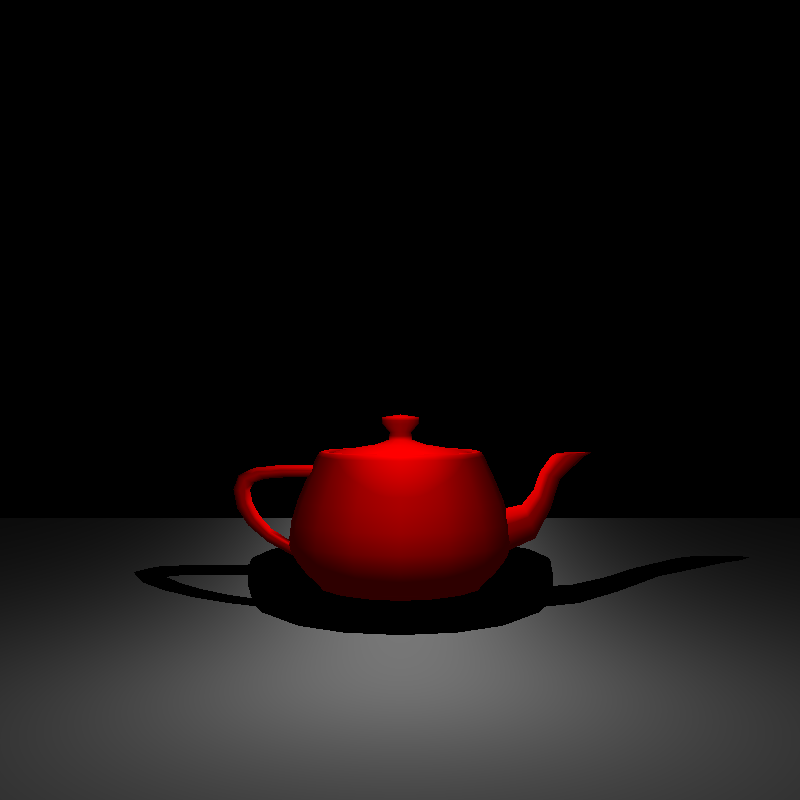
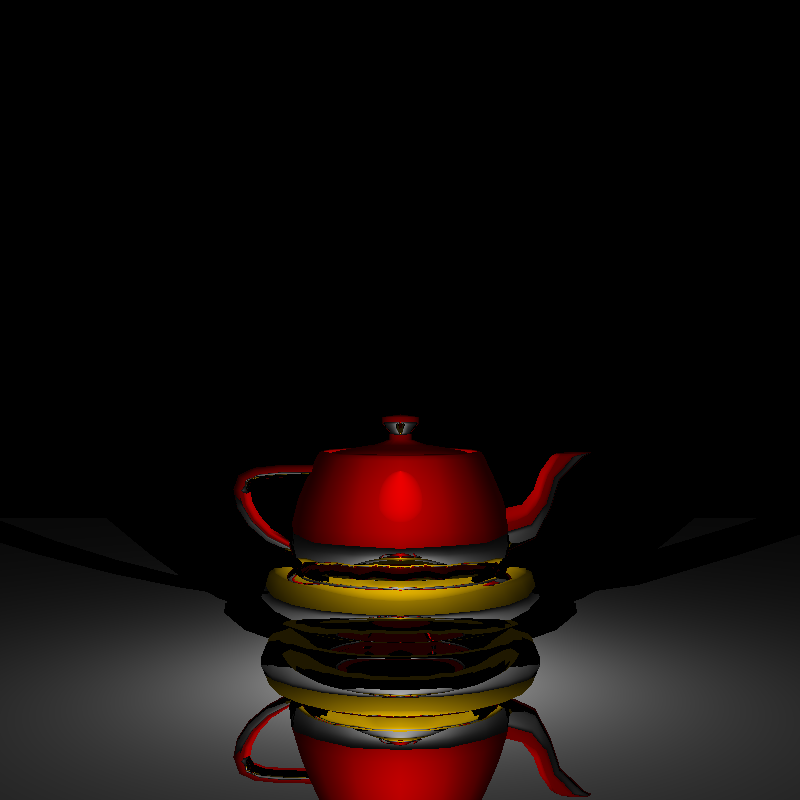
Raytracer v0.9.6
Implemented a recursive reflection method

Changed region(s): [[0.125, 0.5, 0.8438, 1.0]]

diff --git a/src/edu/up/isgc/raytracer/Raytracer.java b/src/edu/up/isgc/raytracer/Raytracer.java
@@ -17,6 +17,7 @@ import java.awt.image.BufferedImage;
 import java.io.File;
 import java.io.IOException;
 import java.lang.reflect.Array;
+import java.sql.NClob;
 import java.util.ArrayList;
 import java.util.Date;
 
@@ -29,14 +30,15 @@ public class Raytracer {
     public static void main(String[] args) {
         System.out.println(new Date());
         Scene scene01 = new Scene();
+
         scene01.setCamera(new Camera(new Vector3D(0, 0, -8), 160, 160, 800, 800, 0f, 30f));
-        //scene01.addLight(new DirectionalLight(Vector3D.ZERO(), new Vector3D(0.0, 2.5, -10), Color.WHITE, 4.4));
-        scene01.addLight(new PointLight(new Vector3D(0f,0.5f,-1f), Color.WHITE, 1.8));
-        //scene01.addObject(new Sphere(new Vector3D(-2.5f, 0.5f, 2f), 0.9f, Color.GREEN));
+        //scene01.addLight(new DirectionalLight(Vector3D.ZERO(), new Vector3D(0, 1.5, -20), Color.WHITE, 0.05));
+        scene01.addLight(new PointLight(new Vector3D(0f,-0.5f,-0.5f), Color.WHITE, 1.8));
         scene01.addObject(new Polygon(new Vector3D(0f, -2f, 0f), new Triangle[]{new Triangle(new Vector3D(10f,0f,10f), new Vector3D(-10f,0f,10f), new Vector3D(-10f,0f,-10f)),
-                new Triangle(new Vector3D(-10f,0f,-10f), new Vector3D(10f,0f,-10f), new Vector3D(10f,0f,10f))}, Color.GRAY, new Material(0.05,5,1,1,1)));
-        scene01.addObject(OBJReader.GetPolygon("SmallTeapot.obj", new Vector3D(0f, -1.7f, 1.5f), Color.RED,new Material(0.3,0.8,0.6,1,1)));
-        //scene01.addObject(OBJReader.GetPolygon("Ring.obj", new Vector3D(0f, -1.7f, 1.5f), Color.ORANGE));
+                new Triangle(new Vector3D(-10f,0f,-10f), new Vector3D(10f,0f,-10f), new Vector3D(10f,0f,10f))}, Color.GRAY, new Material(0.05,5,1,true,false)));
+        scene01.addObject(OBJReader.GetPolygon("SmallTeapot.obj", new Vector3D(0f, -1.7f, 1.5f), Color.RED,new Material(0.3,0.5,0.4,true,false)));
+        scene01.addObject(OBJReader.GetPolygon("Ring.obj", new Vector3D(0f, -1.7f, 1.5f), Color.ORANGE, new Material(0.3,0.5,0.4,true,false)));
+
         BufferedImage image = raytrace(scene01);
         File outputImage = new File("image.png");
         try {
@@ -69,13 +71,22 @@ public class Raytracer {
                 Color pixelColor = Color.BLACK;
                 if (closestIntersection != null) {
                     pixelColor = Color.BLACK;
+                    //Reflection
+                    if (closestIntersection.getObject().getMaterial().getReflection() == true){
+                        int timesReflected = 0;
+                        Intersection reflection = reflection(closestIntersection, objects, mainCamera, timesReflected);
+                        if (reflection != null){
+                            closestIntersection = reflection;
+                        }
+                    }
+                    //Check lights
                     for (Light light : lights) {
                         Ray shadowRay = new Ray(closestIntersection.getPosition(), Vector3D.substract(light.getPosition(),closestIntersection.getPosition()));
                         Intersection shadow = raycast(shadowRay, objects, closestIntersection.getObject(), new float[]{cameraZ + nearFarPlanes[0], cameraZ + nearFarPlanes[1]});
                         float nDotL = light.getNDotL(closestIntersection);
                         float intensity = (float) light.getIntensity() * nDotL;
-                        float lightRange = intensity / (float) Vector3D.magnitude(Vector3D.substract(closestIntersection.getPosition(),light.getPosition()));
-                        //float lightRange = intensity / (float) Math.pow(Vector3D.magnitude(Vector3D.substract(closestIntersection.getPosition(),light.getPosition())),2) ;
+                        float falloff = intensity / (float) Vector3D.magnitude(Vector3D.substract(closestIntersection.getPosition(),light.getPosition()));
+                        //float falloff = intensity / (float) Math.pow(Vector3D.magnitude(Vector3D.substract(closestIntersection.getPosition(),light.getPosition())),2) ;
                         double ambient = closestIntersection.getObject().getMaterial().getAmbient();
                         double specular = specular(closestIntersection, ray, light);
                         Color lightColor = light.getColor();
@@ -84,7 +95,7 @@ public class Raytracer {
                         float[] lightColors = new float[]{(lightColor.getRed() / 255.0f)*objDiffuse, (lightColor.getGreen() / 255.0f)*objDiffuse, (lightColor.getBlue() / 255.0f)*objDiffuse};
                         float[] objColors = new float[]{objColor.getRed() / 255.0f, objColor.getGreen() / 255.0f, objColor.getBlue() / 255.0f};
                         for (int colorIndex = 0; colorIndex < objColors.length; colorIndex++) {
-                            objColors[colorIndex] *= (lightRange+specular+ambient) * lightColors[colorIndex];
+                            objColors[colorIndex] *= (falloff+specular+ambient) * lightColors[colorIndex];
                         }
                         Color diffuse = new Color(clamp(objColors[0], 0, 1),clamp(objColors[1], 0, 1),clamp(objColors[2], 0, 1));
                         if (shadow != null){
@@ -159,10 +170,28 @@ public class Raytracer {
             return 0;
     }
 
-    public static Intersection reflection(Intersection intersection, ArrayList<Object3D> objects, Camera camera){
-        float reflection = 2;
-        if (reflection > 0){
-            //refleja();
+    public static Intersection reflection(Intersection intersection, ArrayList<Object3D> objects, Camera camera, int timesReflected){
+        boolean objectReflection = intersection.getObject().getMaterial().getReflection();
+        float cameraZ = (float) camera.getPosition().getZ();
+        float[] nearFarPlanes = camera.getNearFarPlanes();
+        if (objectReflection == true && timesReflected <= 3) {
+            Vector3D normal = intersection.getNormal();
+            Vector3D view = Vector3D.substract(intersection.getPosition(), camera.getPosition());
+            Vector3D reflectionDirection = Vector3D.add(Vector3D.scalarMultiplication(Vector3D.scalarMultiplication(normal, -2), Vector3D.dotProduct(normal, view)), view);
+            Ray reflection = new Ray(intersection.getPosition(), reflectionDirection);
+
+            for (Object3D object : objects){
+                if (!object.equals(intersection.getObject())) {
+                    Intersection reflectionIntersection = raycast(reflection, objects, intersection.getObject(), new float[]{cameraZ + nearFarPlanes[0], cameraZ + nearFarPlanes[1]});
+                    //Recursive reflection
+                    if (reflectionIntersection == null) {
+                        return intersection;
+                    }
+                    else {
+                        return reflection(reflectionIntersection, objects, camera, timesReflected+1);
+                    }
+                }
+            }
         }
         return intersection;
     }

diff --git a/src/edu/up/isgc/raytracer/tools/Material.java b/src/edu/up/isgc/raytracer/tools/Material.java
@@ -5,12 +5,11 @@ import java.awt.*;
 public class Material {
         private double ambient;
         private double shininess;
-        private double specular;
         private double diffuse;
-        private double reflection;
-        private double refraction;
+        private boolean reflection;
+        private boolean refraction;
 
-        public Material(double ambient, double shininess, double diffuse, double reflection, double refraction){
+        public Material(double ambient, double shininess, double diffuse, boolean reflection, boolean refraction){
             setAmbient(ambient);
             setShininess(shininess);
             setDiffuse(diffuse);
@@ -42,19 +41,19 @@ public class Material {
         this.diffuse = diffuse;
     }
 
-    public double getReflection() {
+    public boolean getReflection() {
         return reflection;
     }
 
-    public void setReflection(double reflection) {
+    public void setReflection(boolean reflection) {
         this.reflection = reflection;
     }
 
-    public double getRefraction() {
+    public boolean getRefraction() {
         return refraction;
     }
 
-    public void setRefraction(double refraction) {
+        public void setRefraction(boolean refraction) {
         this.refraction = refraction;
     }
 }

diff --git a/src/edu/up/isgc/raytracer/objects/Camera.java b/src/edu/up/isgc/raytracer/objects/Camera.java
@@ -24,7 +24,7 @@ public class Camera extends Object3D {
     // 1 is height
     private int[] resolution;
     private float[] nearFarPlanes = new float[2];
-    private static Material material = new Material(0,0,0,0,0);
+    private static Material material = new Material(0,0,0,false,false);
 
     public Camera(Vector3D position, float fieldOfViewHorizontal, float fieldOfViewVertical, int widthResolution, int heightResolution, float nearPlane, float farPlane) {
         super(position, Color.black, material);

diff --git a/src/edu/up/isgc/raytracer/lights/Light.java b/src/edu/up/isgc/raytracer/lights/Light.java
@@ -18,7 +18,7 @@ import java.awt.*;
  */
 public abstract class Light extends Object3D {
     private double intensity;
-    private static Material material = new Material(0,0,0,0,0);
+    private static Material material = new Material(0,0,0,false,false);
 
     public Light(Vector3D position, Color color, double intensity){
         super(position, color, material);
